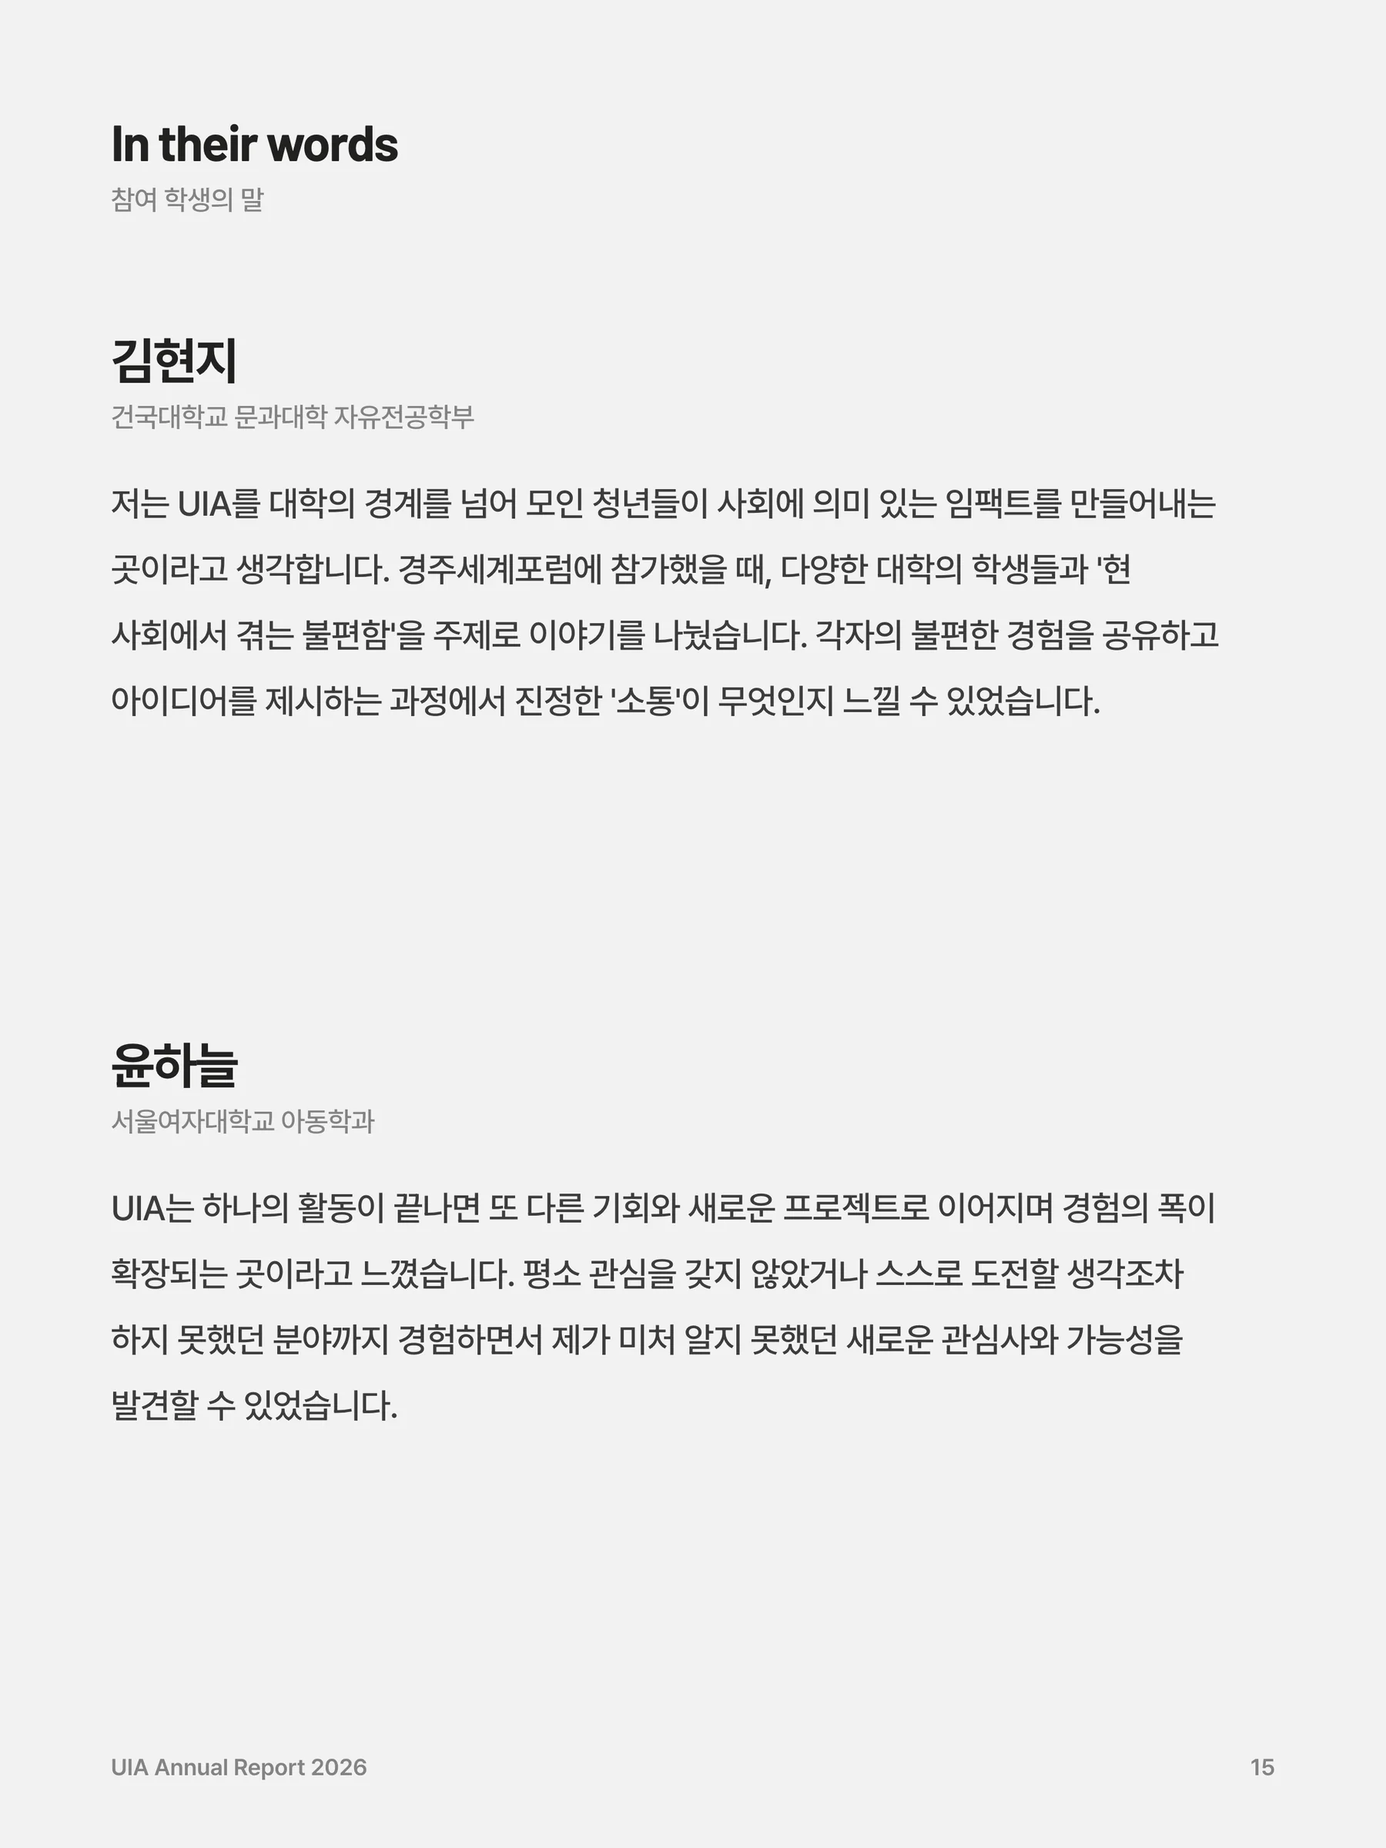
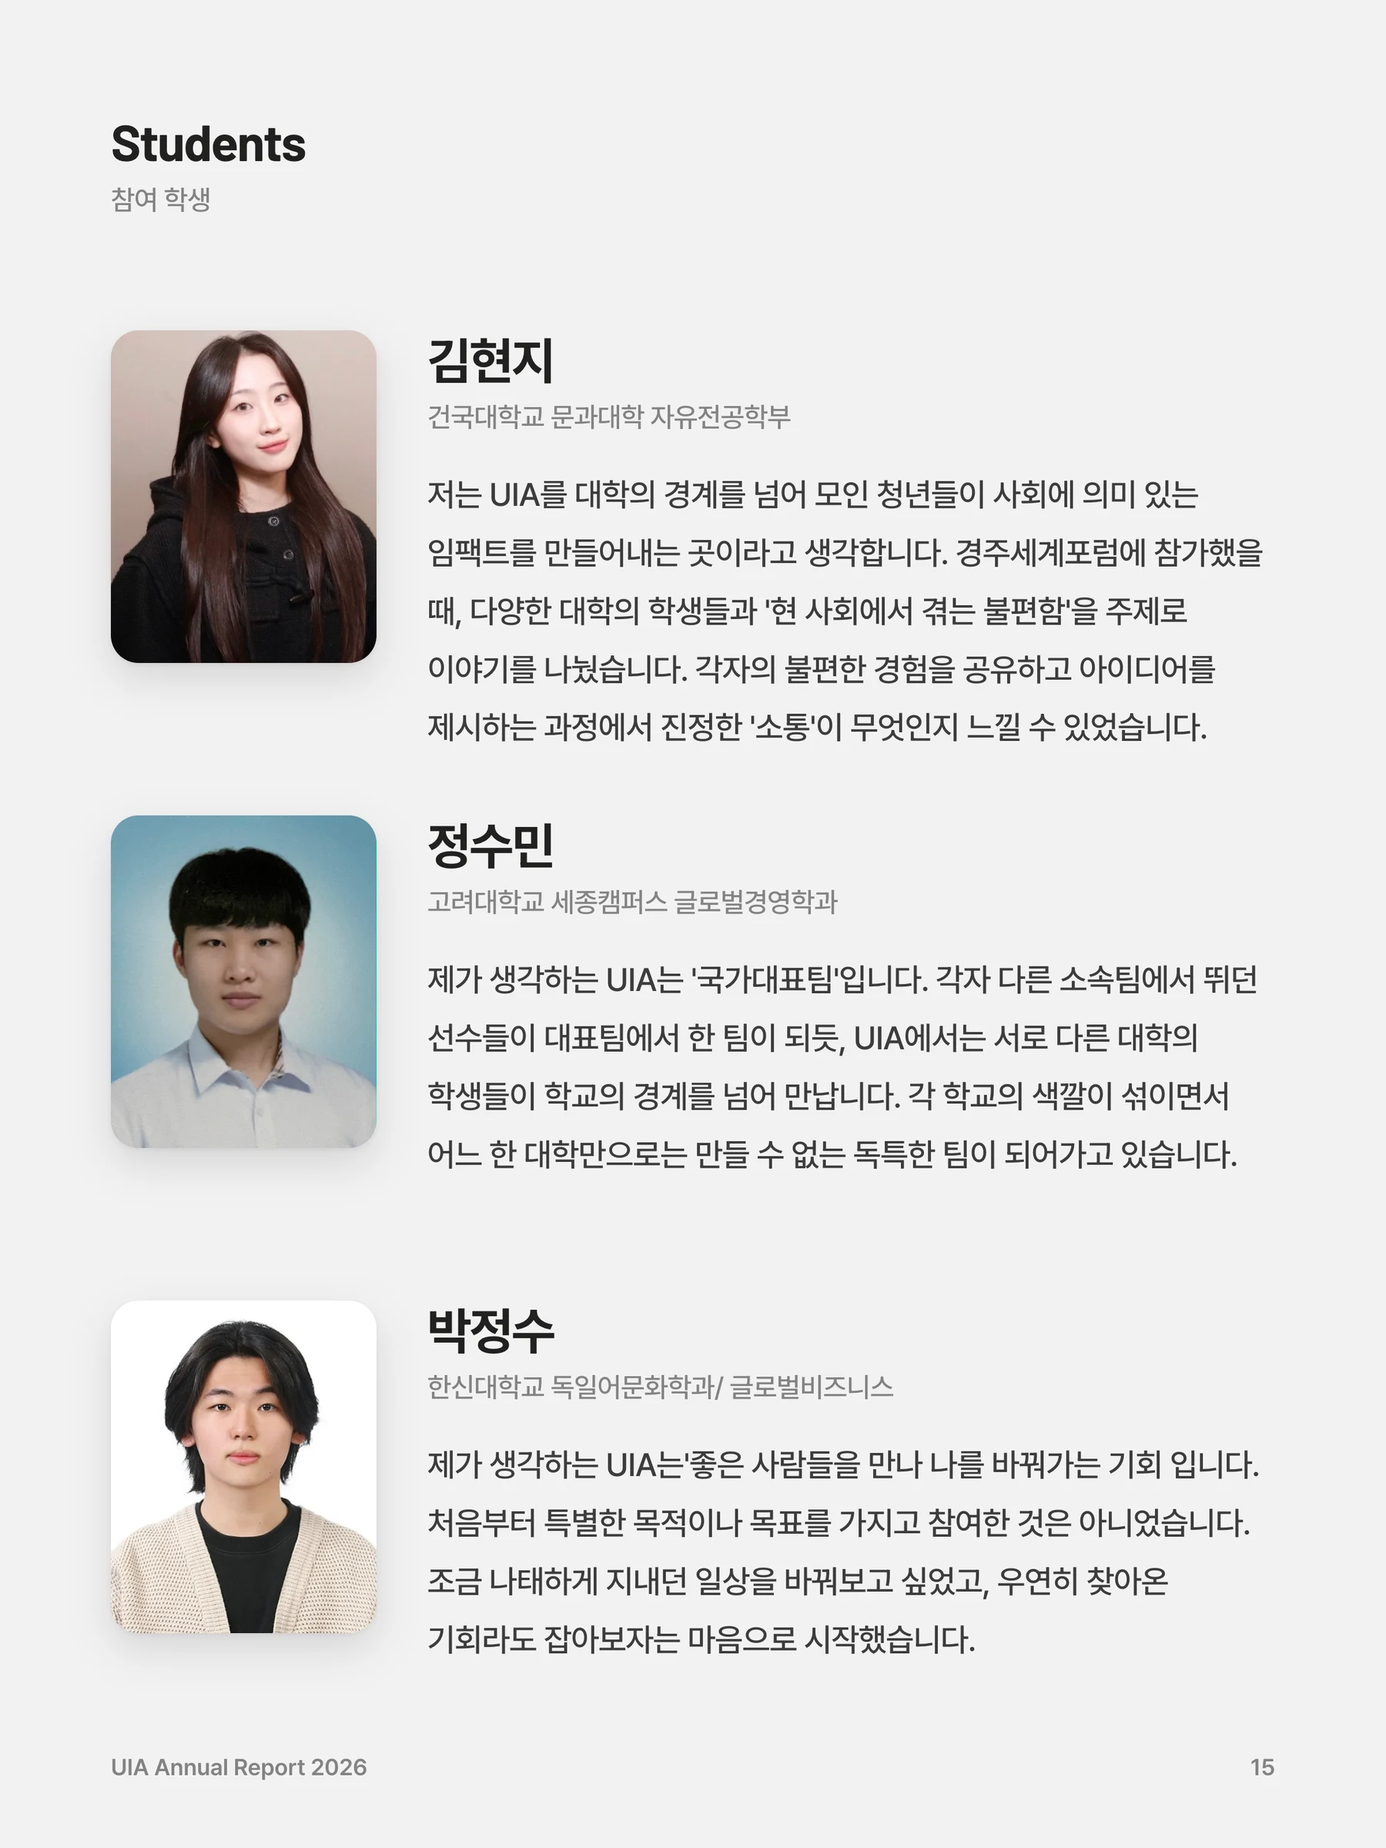
리포트 갱신: 4C 블러 구체, 캠퍼스별 로고, 학생 사진과 학교 전공, 사가페 단체 사진

diff --git a/source/pages.html b/source/pages.html
@@ -65,17 +65,49 @@ const PHOTOS={
   ccGrid:['p6','p12','p24','p82','p129','p134'].map(n=>A+'photos/'+n+'.jpg'),
   sgGrid:['p235','p254','p279','p284','p303','p314'].map(n=>A+'photos/'+n+'.jpg'),
   gjGrid:['p165','p169','p175','p207','p211','p232'].map(n=>A+'photos/'+n+'.jpg'),
-  sgStrip:['p239','p308'].map(n=>A+'photos/'+n+'.jpg'), ccOpen:A+'photos/cc-group-1.jpg', sgOpen:A+'photos/sg-booth-team.jpg', gjOpen:A+'photos/gj-hall.jpg',
+  sgStrip:['p239','p308'].map(n=>A+'photos/'+n+'.jpg'), ccOpen:A+'photos/cc-group-1.jpg', sgOpen:A+'photos/sg-session-group.jpg', gjOpen:A+'photos/gj-hall.jpg',
 };
 if(window.__PHOTOS) Object.assign(PHOTOS,window.__PHOTOS);
 
 const PEOPLE=[
- {n:'김현지',s:'건국대학교 문과대학 자유전공학부',t:'저는 UIA를 대학의 경계를 넘어 모인 청년들이 사회에 의미 있는 임팩트를 만들어내는 곳이라고 생각합니다. 경주세계포럼에 참가했을 때, 다양한 대학의 학생들과 \'현 사회에서 겪는 불편함\'을 주제로 이야기를 나눴습니다. 각자의 불편한 경험을 공유하고 아이디어를 제시하는 과정에서 진정한 \'소통\'이 무엇인지 느낄 수 있었습니다.'},
- {n:'윤하늘',s:'서울여자대학교 아동학과',t:'UIA는 하나의 활동이 끝나면 또 다른 기회와 새로운 프로젝트로 이어지며 경험의 폭이 확장되는 곳이라고 느꼈습니다. 평소 관심을 갖지 않았거나 스스로 도전할 생각조차 하지 못했던 분야까지 경험하면서 제가 미처 알지 못했던 새로운 관심사와 가능성을 발견할 수 있었습니다.'},
- {n:'박정수',s:'한신대학교 독일어문화학과, 글로벌비즈니스',t:'제가 생각하는 UIA는 좋은 사람들을 만나 나를 바꿔가는 기회입니다. 생각보다 훨씬 좋은 사람들을 만나게 되었고, 각자의 자리에서 열심히 살아가는 사람들을 보며 저 역시 많은 자극을 받았습니다. 지금은 단순히 활동을 함께하는 관계를 넘어 서로에게 좋은 영향을 주고받는 커뮤니티가 되었다고 생각합니다.'},
- {n:'김태준',s:'건국대학교 식품과학, 생물공학과',t:'제가 생각하는 UIA는 학생들이 적극적으로 실패하는 법을 배우는 곳입니다. 넘어지는 것을 두려워하지 않기에 기꺼이 부딪히며, 넘어진 자리에서 다시 일어나 또 도전하는 곳으로 다음 걸음을 준비하는 곳이기도 합니다. 놀이터에서는 넘어지는 일이 자연스럽고, 다시 일어나 뛰는 과정에서 조금씩 더 잘하게 됩니다.'},
+ {
+  "n": "김현지",
+  "s": "건국대학교 문과대학 자유전공학부",
+  "t": "저는 UIA를 대학의 경계를 넘어 모인 청년들이 사회에 의미 있는 임팩트를 만들어내는 곳이라고 생각합니다. 경주세계포럼에 참가했을 때, 다양한 대학의 학생들과 '현 사회에서 겪는 불편함'을 주제로 이야기를 나눴습니다. 각자의 불편한 경험을 공유하고 아이디어를 제시하는 과정에서 진정한 '소통'이 무엇인지 느낄 수 있었습니다.",
+  "p": "people/kim-hyunji.jpg"
+ },
+ {
+  "n": "정수민",
+  "s": "고려대학교 세종캠퍼스 글로벌경영학과",
+  "t": "제가 생각하는 UIA는 '국가대표팀'입니다. 각자 다른 소속팀에서 뛰던 선수들이 대표팀에서 한 팀이 되듯, UIA에서는 서로 다른 대학의 학생들이 학교의 경계를 넘어 만납니다. 각 학교의 색깔이 섞이면서 어느 한 대학만으로는 만들 수 없는 독특한 팀이 되어가고 있습니다.",
+  "p": "people/jeong-sumin.jpg"
+ },
+ {
+  "n": "박정수",
+  "s": "한신대학교 독일어문화학과/ 글로벌비즈니스",
+  "t": "제가 생각하는 UIA는'좋은 사람들을 만나 나를 바꿔가는 기회 입니다. 처음부터 특별한 목적이나 목표를 가지고 참여한 것은 아니었습니다. 조금 나태하게 지내던 일상을 바꿔보고 싶었고, 우연히 찾아온 기회라도 잡아보자는 마음으로 시작했습니다.",
+  "p": "people/park-jeongsu.jpg"
+ },
+ {
+  "n": "김태준",
+  "s": "건국대학교 식품과학·생물공학과",
+  "t": "제가 생각하는 UIA는 학생들이 적극적으로 실패하는 법을 배우는 곳입니다. 넘어지는 것을 두려워하지 않기에 기꺼이 부딪히며, 넘어진 자리에서 다시 일어나 또 도전하는 곳으로 다음 걸음을 준비하는 곳이기도 합니다. 작년 발족식 인터뷰에서 ‘학생들이 뛰어놀 수 있는 놀이터를 만들어달라’고 말한 것도 그래서였습니다.",
+  "p": "people/kim-taejun.jpg"
+ },
+ {
+  "n": "경유준",
+  "s": "한림대학교 글로벌비즈니스전공",
+  "t": "제가 생각하는 UIA는 단순히 여러 대학의 학생들이 모여 활동하는 조직이 아니라, 서로 다른 경험과 관점을 가진 사람들이 만나 새로운 질문을 던지고, 함께 성장하며, 그 배움을 사회적 실천으로 연결하는 공동체입니다.",
+  "p": "people/gyeong-yujun.jpg"
+ },
+ {
+  "n": "이창현",
+  "s": "서강대학교 경영학과",
+  "t": "제가 생각하는 UIA는 배움의 의미를 다시 생각하게 만드는 공간입니다. 대학에서 공부하다 보면 높은 성적을 받는 것이 배움의 목표처럼 느껴질 때가 있습니다. 하지만 UIA에서는 강의실을 벗어나 사회의 다양한 문제를 직접 마주하고, 정해진 답이 없는 상황에 대해 스스로 질문하며 해결 방법을 찾아가는 경험을 할 수 있습니다.",
+  "p": "people/lee-changhyun.jpg"
+ }
 ];
-const UNIS=[['catholic.svg','The Catholic University of Korea','가톨릭대학교'],['konkuk.svg','Konkuk University','건국대학교'],['korea.svg','Korea University','고려대학교 서울, 세종'],['sogang.png','Sogang University','서강대학교'],['hanyang.svg','Hanyang University','한양대학교 서울, ERICA'],['seoulwu.svg',"Seoul Women's University",'서울여자대학교'],['handong.svg','Handong Global University','한동대학교'],['hallym.svg','Hallym University','한림대학교'],['hanshin.svg','Hanshin University','한신대학교']];
+const UNIS=[['catholic.svg','The Catholic University of Korea','가톨릭대학교'],['konkuk.svg','Konkuk University','건국대학교'],['korea.svg','Korea University Seoul','고려대학교 서울'],['korea.svg','Korea University Sejong','고려대학교 세종'],['sogang.png','Sogang University','서강대학교'],['seoulwu.svg',"Seoul Women's University",'서울여자대학교'],['handong.svg','Handong Global University','한동대학교'],['hallym.svg','Hallym University','한림대학교'],['hanshin.svg','Hanshin University','한신대학교'],['hanyang.svg','Hanyang University Seoul','한양대학교 서울'],['hanyang.svg','Hanyang University ERICA','한양대학교 ERICA']];
 
 const folio=(n,l)=>`<div class="folio"><span>UIA Annual Report 2026</span><span>${n}</span></div>`;
 const gridPhotos=(arr,x0,y0,w,h,gap)=>{ // 2열 3행
@@ -97,7 +129,7 @@ pages.push(`<section class="page dark" id="p0" style="--bgc:#212120">
   </div>
  </div></section>`);
 // 1 목차
-const toc=[['About UIA','UIA는',2],['4C Strategy','4C 전략',3],['Partner universities','함께하는 대학',4],['2026 at a glance','2026년 활동',5],['Impactthon Chuncheon','임팩톤@춘천',6],['Social Value Festa','사회적가치 페스타',9],['Gyeongju Forum','경주 포럼',12],['In their words','참여 학생의 말',15],['UIA Special Hall','UIA 특별관',17]];
+const toc=[['About UIA','UIA는',2],['4C Strategy','4C 전략',3],['Partner universities','함께하는 대학',4],['2026 at a glance','2026년 활동',5],['Impactthon Chuncheon','임팩톤@춘천',6],['Social Value Festa','사회적가치 페스타',9],['Gyeongju Forum','경주 포럼',12],['Students','참여 학생',15],['UIA Special Hall','UIA 특별관',17]];
 pages.push(`<section class="page" id="p1"><div class="pad">
  <h1 class="t-h1">Contents</h1><p class="ko-lg" style="margin-top:14px">목차</p>
  <div style="margin-top:90px;display:grid;gap:34px">${toc.map(([e,k,n])=>`<div style="display:grid;grid-template-columns:1fr auto;align-items:baseline"><div><div class="t-h2">${e}</div><div class="ko" style="margin-top:2px">${k}</div></div><div class="t-h3" style="color:var(--mute)">${n}</div></div>`).join('')}</div>
@@ -114,17 +146,17 @@ pages.push(`<section class="page" id="p2"><div class="pad">
  <div class="photo" style="left:0;right:0;bottom:90px;height:520px">${img(PHOTOS.ccOpen)}</div>
  </div>${folio(2)}</section>`);
 // 3 4C
-const FOURC=[['Connecting','#2d9ed9','We connect university to university, student to student, and professors to local communities.','대학과 대학, 학생과 학생,/교수와 지역사회를 연결합니다'],['Co-Learning','#fdc51b','Members from many majors and universities learn together at the sites of social problems.','다양한 전공과 대학의 구성원이/사회문제 현장에서 함께 배웁니다'],['Co-Creating','#e94545','We create new solutions together by joining university knowledge with field expertise.','대학의 지식과 현장의 전문성으로/새로운 해결책을 함께 만듭니다'],['Collective Impact','#c4c2c1','We spread knowledge and solutions to regions and society to build collective impact.','지식과 해결책을 지역과 사회로 확산해/집합적 임팩트를 만듭니다']];
+const FOURC=[['01','Connecting','#2d9ed9','#ffffff','We connect universities, students, professors and local communities.','대학과 대학, 학생과 학생, 교수와 지역사회를 연결합니다.'],['02','Co-Learning','#fdc51b','#212120','Members from different majors and campuses learn together at the site of a social problem.','다양한 전공과 대학의 구성원이 사회문제 현장에서 함께 배웁니다.'],['03','Co-Creating','#e94545','#ffffff','University knowledge and field expertise come together to create new solutions.','대학의 지식과 현장의 전문성으로 새로운 해결책을 함께 만듭니다.'],['04','Collective Impact','#212120','#ffffff','Knowledge and solutions spread to communities and society as collective impact.','지식과 해결책을 지역과 사회로 확산해 집합적 임팩트를 만듭니다.']];
 pages.push(`<section class="page" id="p3"><div class="pad">
- <h1 class="t-h1">UIA's 4C Strategy</h1><p class="ko-lg" style="margin-top:14px">UIA의 4C 전략</p>
- <div class="orbs" style="position:absolute;left:-30px;top:250px;width:560px">${FOURC.map(c=>`<div class="orb" style="--c:${c[1]}"><span>${c[0]==='Collective Impact'?'Collective<br>Impact':c[0]}</span></div>`).join('')}</div>
- <div style="position:absolute;left:560px;right:0;top:270px;display:grid;gap:40px">${FOURC.map(c=>`<div><div class="t-h3">${c[0]}</div><p class="en" style="font-size:25px;margin-top:6px">${c[2]}</p><p class="ko" style="font-size:22px">${ph(c[3])}</p></div>`).join('')}</div>
+ <h1 class="t-h1">UIA's 4C Strategy</h1>
+ <div class="orbs" style="position:absolute;left:-30px;top:240px;width:540px">${FOURC.map(c=>`<div class="orb" style="--c:${c[2]==="#212120"?"#c4c2c1":c[2]}"><span>${c[1]==="Collective Impact"?"Collective<br>Impact":c[1]}</span></div>`).join("")}</div>
+ <div style="position:absolute;left:560px;right:0;top:250px;display:grid;gap:60px">${FOURC.map(c=>`<div><div class="t-h3">${c[1]}</div><p class="en" style="font-size:25px;margin-top:6px">${c[4]}</p><p class="ko" style="font-size:22px">${c[5]}</p></div>`).join("")}</div>
  </div>${folio(3)}</section>`);
 // 4 파트너
 pages.push(`<section class="page" id="p4"><div class="pad">
  <h1 class="t-h1">Partner<br>universities</h1><p class="ko-lg" style="margin-top:14px">함께하는 대학</p>
- <p class="en" style="margin-top:40px;max-width:900px;font-size:26px">Universities and Root Impact work together. Each university joins in its own color, and any university that runs social innovation education is welcome to join at any time.</p>
- <div style="position:absolute;left:0;right:0;top:500px;display:grid;grid-template-columns:repeat(3,1fr);gap:28px 30px">${UNIS.map(u=>`<div><div class="sym" style="width:176px"><img src="${A}symbols/${u[0]}" alt=""></div><div class="cap" style="margin-top:16px">${u[1]}<small>${u[2]}</small></div></div>`).join('')}</div>
+ <div style="position:absolute;left:0;right:0;top:300px;display:grid;grid-template-columns:repeat(4,1fr);gap:22px 26px">${UNIS.map(u=>`<div><div class="sym" style="width:112px"><img src="${A}symbols/${u[0]}" alt=""></div><div class="cap" style="margin-top:14px;font-size:21px">${u[1]}<small style="font-size:19px">${u[2]}</small></div></div>`).join('')}</div>
+ <div class="photo" style="left:0;right:0;top:1090px;height:318px">${img(PHOTOS.ccOpen)}</div>
  </div>${folio(4)}</section>`);
 // 5 2026 한눈에
 const EV=[['Jul 16 to 18','7월 16일부터 18일까지','Impactthon Chuncheon','임팩톤@춘천','Chuncheon','춘천'],['Sep 22','9월 22일','Social Value Festa','사회적가치 페스타','COEX, Seoul','서울 코엑스'],['Oct 8 to 9','10월 8일부터 9일까지','World Gyeongju Forum','경주 포럼','Gyeongju','경주'],['Nov 27 to 29','11월 27일부터 29일까지','Social Solidarity Economy Expo, UIA Special Hall','사회연대경제박람회 UIA 특별관','KINTEX, Goyang','고양 킨텍스']];
@@ -169,9 +201,9 @@ pages.push(`<section class="page" id="p13"><div class="pad"><h2 class="t-h2">Fou
 // 14 경주 사진
 pages.push(`<section class="page" id="p14"><div class="pad"><h2 class="t-h2">Inside the sessions</h2><p class="ko" style="margin-top:4px">경주 세션 현장</p>${gridPhotos(PHOTOS.gjGrid,0,150,1008,1250,24)}</div>${folio(14)}</section>`);
 // 15, 16 사람
-const personBlock=(p,top)=>`<div style="position:absolute;left:0;right:0;top:${top}px"><div class="t-h2" style="font-family:var(--sans);font-weight:700;letter-spacing:-.035em">${p.n}</div><p class="ko" style="margin-top:2px">${p.s}</p><p style="margin-top:26px;font:500 30px/1.9 var(--sans);letter-spacing:-.02em;color:var(--ink2);max-width:980px">${p.t}</p></div>`;
-pages.push(`<section class="page" id="p15"><div class="pad"><h2 class="t-h2">In their words</h2><p class="ko" style="margin-top:4px">참여 학생의 말</p>${personBlock(PEOPLE[0],190)}${personBlock(PEOPLE[1],800)}</div>${folio(15)}</section>`);
-pages.push(`<section class="page" id="p16"><div class="pad"><h2 class="t-h2">In their words</h2><p class="ko" style="margin-top:4px">참여 학생의 말</p>${personBlock(PEOPLE[2],190)}${personBlock(PEOPLE[3],800)}</div>${folio(16)}</section>`);
+const personBlock=(p,top)=>`<div style="position:absolute;left:0;right:0;top:${top}px;display:grid;grid-template-columns:230px 1fr;gap:44px;align-items:start"><div class="photo" style="position:relative;width:230px;height:288px">${img(A+p.p)}</div><div><div class="t-h2" style="font-family:var(--sans);font-weight:700;letter-spacing:-.035em">${p.n}</div><p class="ko" style="margin-top:2px">${p.s}</p><p style="margin-top:22px;font:500 28px/1.8 var(--sans);letter-spacing:-.02em;color:var(--ink2)">${p.t}</p></div></div>`;
+pages.push(`<section class="page" id="p15"><div class="pad"><h2 class="t-h2">Students</h2><p class="ko" style="margin-top:4px">참여 학생</p>${personBlock(PEOPLE[0],190)}${personBlock(PEOPLE[1],610)}${personBlock(PEOPLE[2],1030)}</div>${folio(15)}</section>`);
+pages.push(`<section class="page" id="p16"><div class="pad"><h2 class="t-h2">Students</h2><p class="ko" style="margin-top:4px">참여 학생</p>${personBlock(PEOPLE[3],190)}${personBlock(PEOPLE[4],610)}${personBlock(PEOPLE[5],1030)}</div>${folio(16)}</section>`);
 // 17 특별관
 pages.push(`<section class="page dark" id="p17" style="--bgc:#212120"><div class="shape" style="right:-210px;bottom:-210px;width:760px;height:760px">${RING}</div><div class="shape" style="left:-120px;top:930px;width:640px;height:320px">${WAVE}</div>
  <div class="pad"><h1 class="t-h1" style="color:#f2f2f2">UIA<br>Special Hall</h1><p class="ko-lg" style="margin-top:14px;color:#adaeae">UIA 특별관</p>
@@ -182,7 +214,7 @@ pages.push(`<section class="page dark" id="p17" style="--bgc:#212120"><div class
 pages.push(`<section class="page" id="p18"><div class="pad"><h1 class="t-h1">Thank you</h1><p class="ko-lg" style="margin-top:14px">함께해 주셔서 감사합니다</p>
  <p class="en" style="margin-top:44px;max-width:900px;font-size:26px">Thank you to Root Impact, the partner universities and every student who took part in 2026.</p>
  <p class="ko" style="margin-top:8px;font-size:23px">${ph('루트임팩트와 함께하는 대학,/2026년을 함께한 모든 학생에게 감사드립니다.')}</p>
- <div style="position:absolute;left:0;right:0;top:620px;display:grid;grid-template-columns:repeat(5,1fr);gap:30px 22px">${UNIS.map(u=>`<div class="sym"><img src="${A}symbols/${u[0]}" alt=""></div>`).join('')}</div></div>${folio(18)}</section>`);
+ <div style="position:absolute;left:0;right:0;top:620px;display:grid;grid-template-columns:repeat(6,1fr);gap:26px 20px">${UNIS.map(u=>`<div class="sym"><img src="${A}symbols/${u[0]}" alt=""></div>`).join('')}</div></div>${folio(18)}</section>`);
 // 19 뒷표지
 pages.push(`<section class="page dark" id="p19" style="--bgc:#212120"><div class="pad"><div style="position:absolute;left:0;top:0;color:#f2f2f2">${MARK('#f2f2f2',72)}</div>
  <div style="position:absolute;left:0;bottom:120px"><p class="t-h2" style="color:#f2f2f2">University Impact Alliance</p><p class="ko" style="margin-top:4px">대학 임팩트 얼라이언스</p><p class="en" style="margin-top:40px;font-size:24px">uia-impact.org</p></div></div></section>`);

diff --git a/src/manifest.js b/src/manifest.js
@@ -9,7 +9,7 @@ export const manifest = {
     { id: 'chuncheon', en: 'Impactthon Chuncheon', ko: '임팩톤@춘천', page: 6 },
     { id: 'festa', en: 'Social Value Festa', ko: '사회적가치 페스타', page: 9 },
     { id: 'gyeongju', en: 'Gyeongju Forum', ko: '경주 포럼', page: 12 },
-    { id: 'people', en: 'In their words', ko: '참여 학생의 말', page: 15 },
+    { id: 'people', en: 'Students', ko: '참여 학생', page: 15 },
     { id: 'hall', en: 'UIA Special Hall', ko: 'UIA 특별관', page: 17 },
   ],
 }
